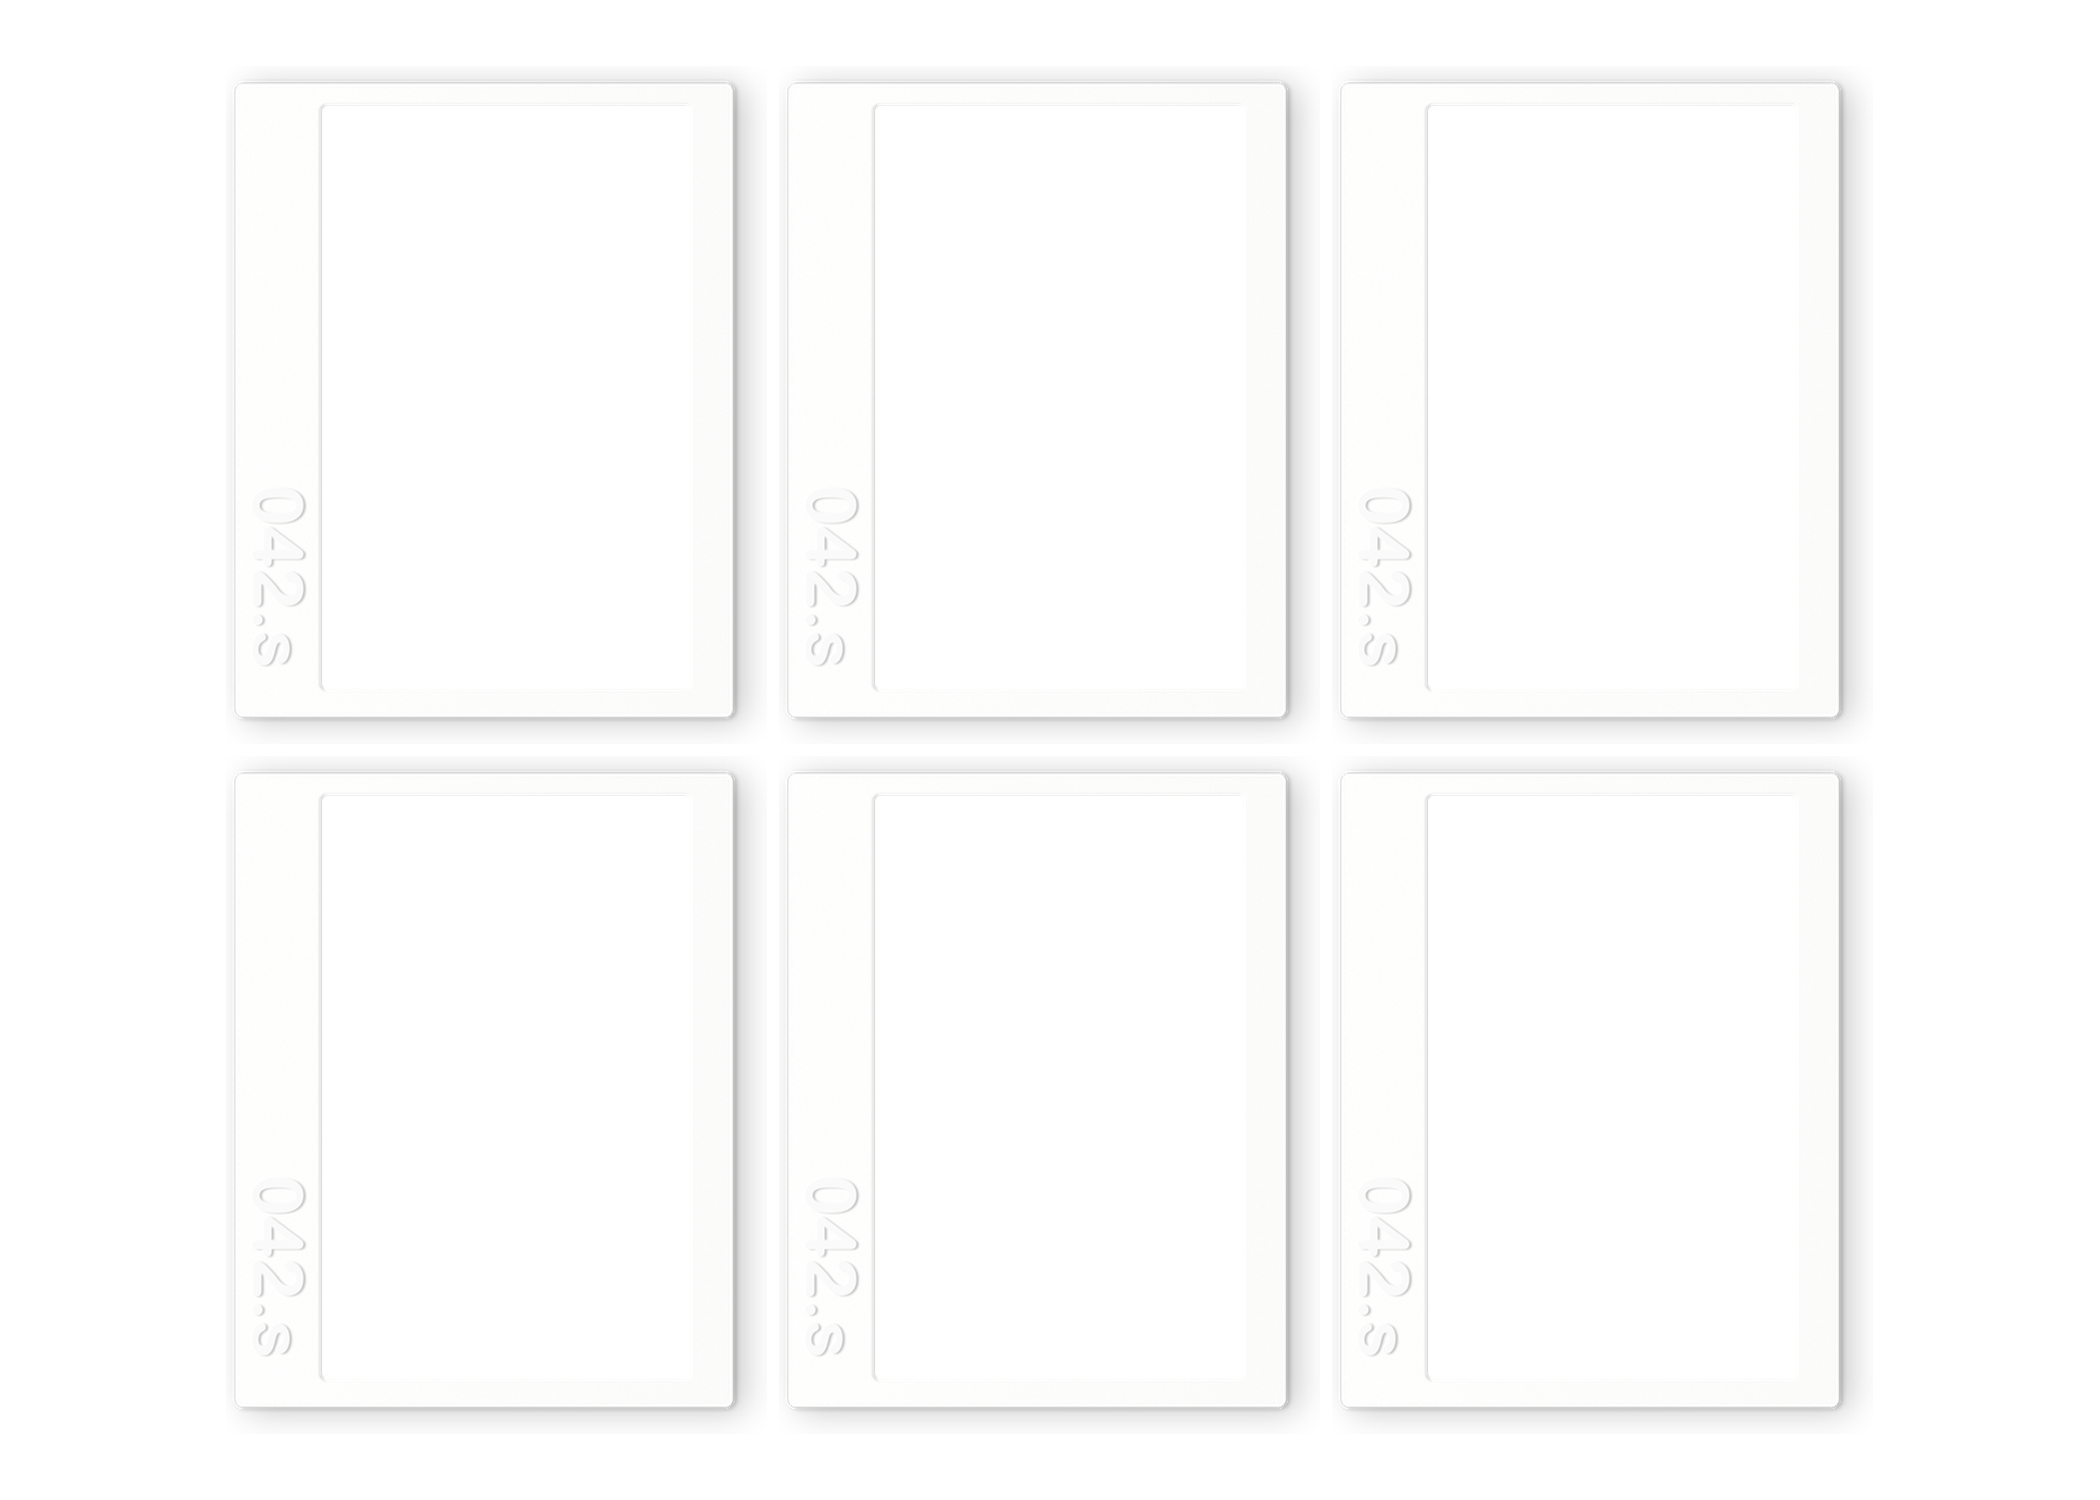
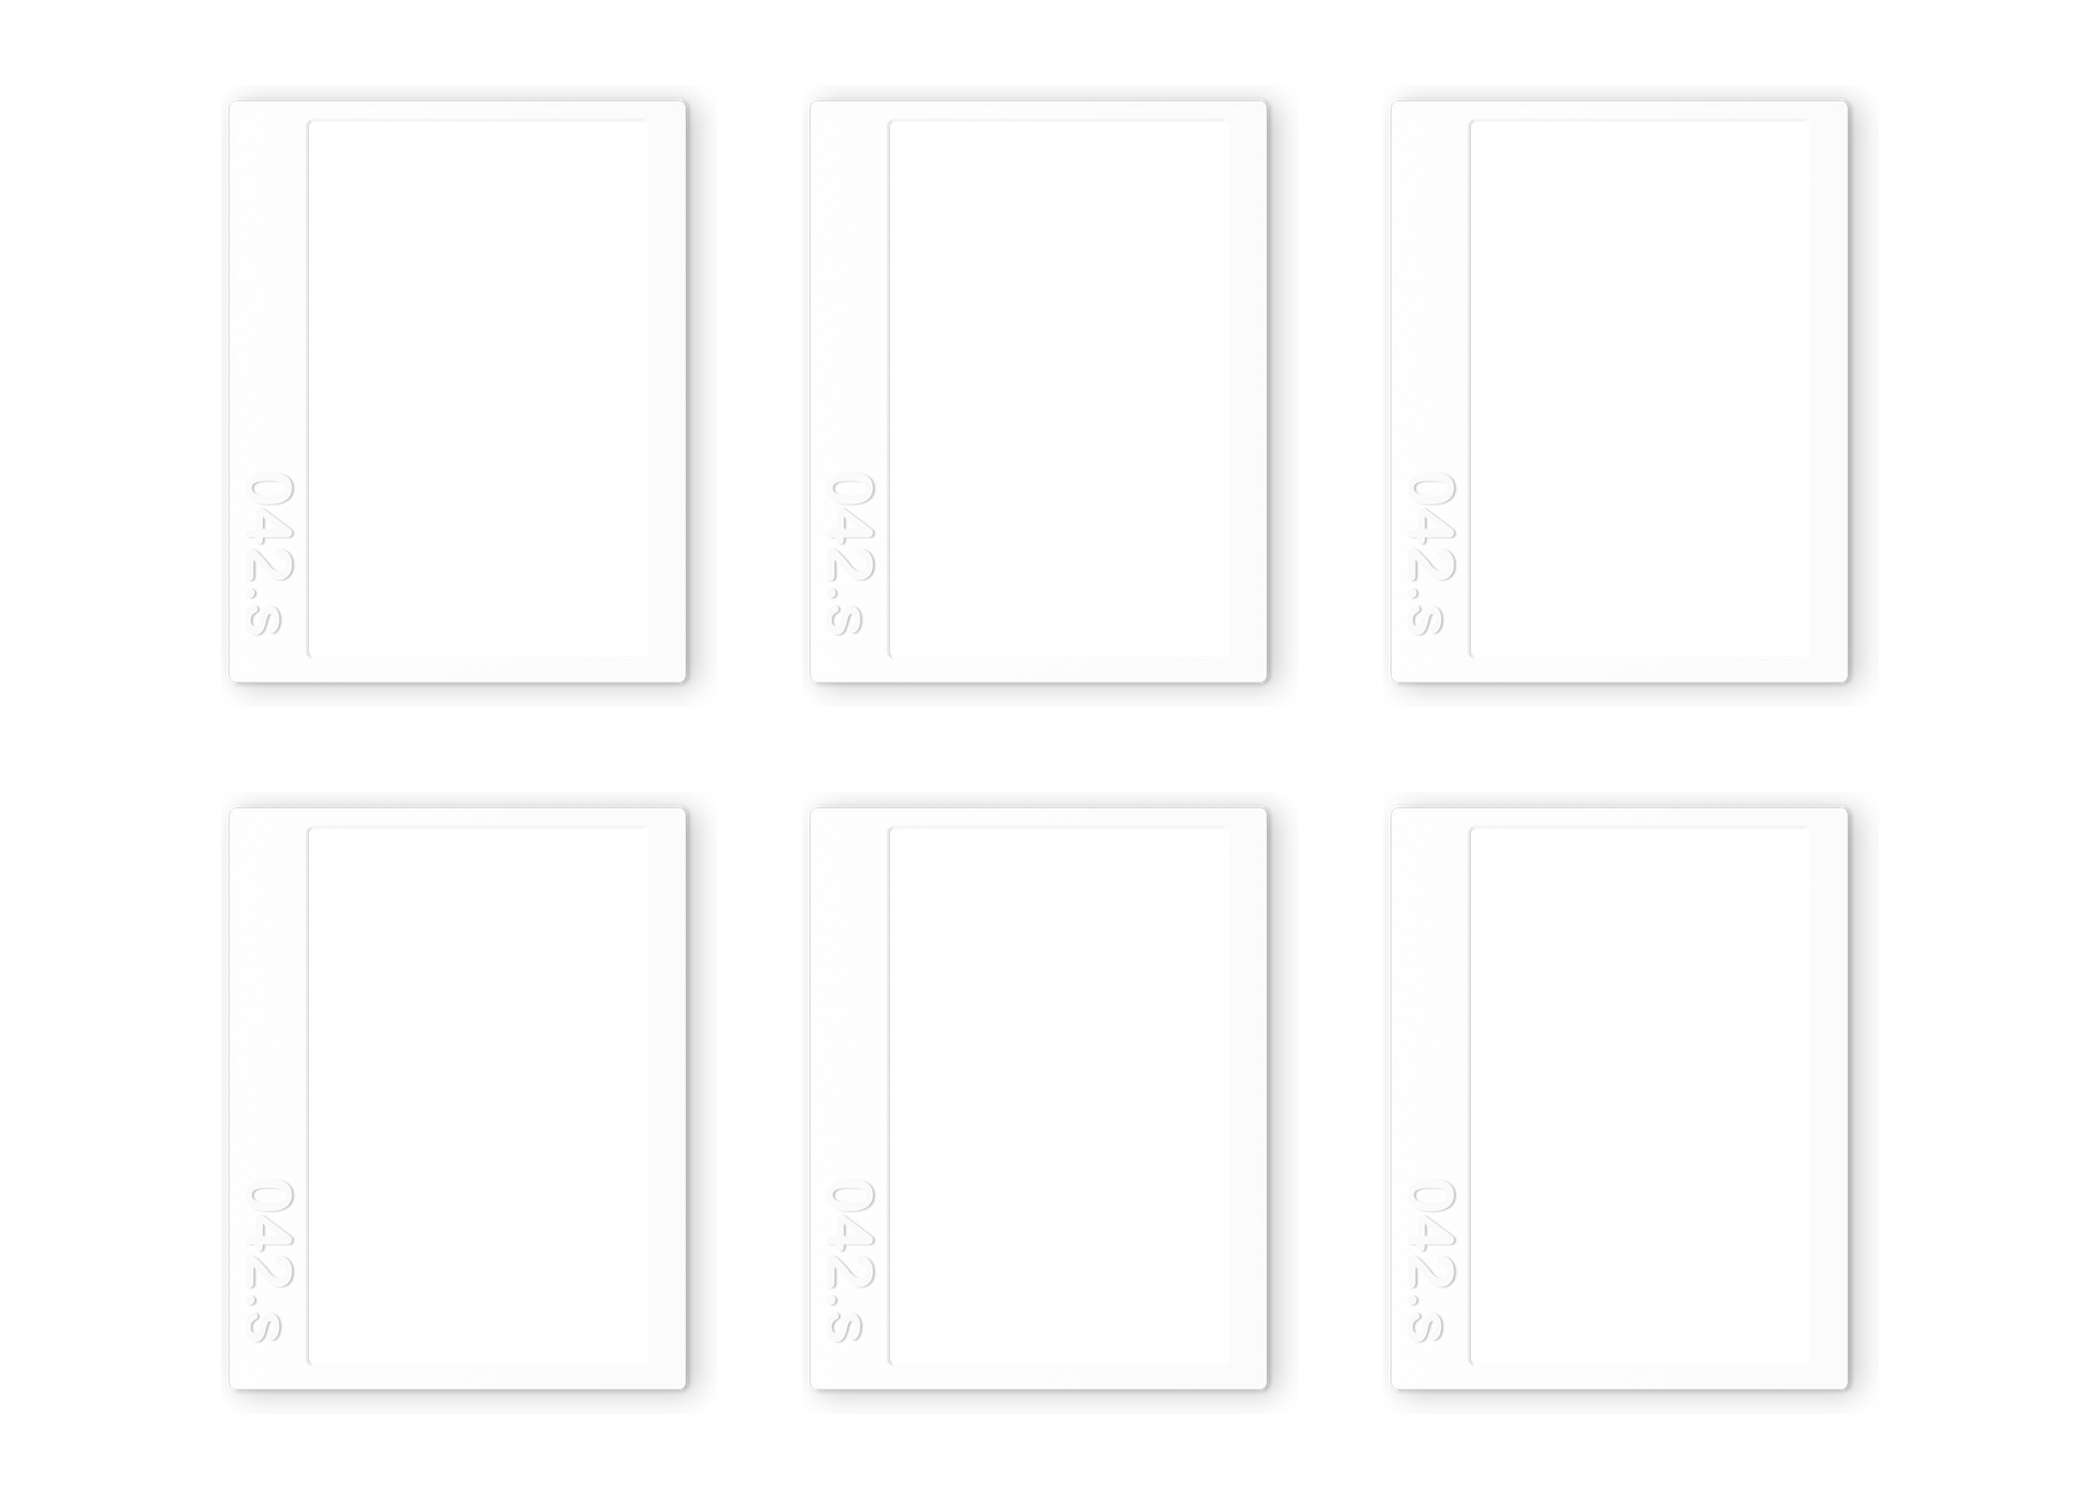
폴라로이드 6컷 카드 하나로 합치고 방향 고르기 단계, 카드 사이 넓힘
첫 화면은 폴라로이드 6컷 카드 하나, 누르면 세로·가로를 고른 뒤 색 고르기로 갑니다.
카드 사이를 10px에서 80~85px로 넓혔습니다. 캐시 self042-v54.

diff --git a/app.js b/app.js
@@ -79,19 +79,20 @@ function defaultConfig(){
         texts: []
       },
       /* 폴라로이드 6컷 — 예전 9컷 카드(그림은 휴지통으로 옮김, 카드 하나 그림자 포함 451×565)를 키워 6장으로(사용자 요청, 세로·가로 둘 다).
-         세로 frames/polaroid6v.png(1500×2100) 2×3, 카드 1.12배, 사진 칸 344×544.
-         가로 frames/polaroid6h.png(2100×1500) 3×2, 카드 1.2배, 사진 칸 368×583. 8장 찍고 서로 다른 6장을 고릅니다. */
+         카드 사이가 너무 붙어 보여 카드를 줄이고 사이를 넓혔습니다(사용자 요청, 사이 = 카드 폭의 약 17%).
+         세로 frames/polaroid6v.png(1500×2100) 2×3, 카드 1.05배, 사이 80, 사진 칸 322×510.
+         가로 frames/polaroid6h.png(2100×1500) 3×2, 카드 1.1배, 사이 85, 사진 칸 338×535. 8장 찍고 서로 다른 6장을 고릅니다. */
       {
         id: "pol6v", name: "폴라로이드 6컷 세로", enabled: true, instax: false, style: "frame", bg: "#FFFFFF", shots: 8,
         canvas: { w:1500, h:2100 },
         frame: null, frameSrc: "frames/polaroid6v.png",
         slots: [
-          {x:329, y:126, w:344, h:544, shot:0},
-          {x:845, y:126, w:344, h:544, shot:1},
-          {x:329, y:770, w:344, h:544, shot:2},
-          {x:845, y:770, w:344, h:544, shot:3},
-          {x:329, y:1414, w:344, h:544, shot:4},
-          {x:845, y:1414, w:344, h:544, shot:5}
+          {x:320, y:115, w:322, h:510, shot:0},
+          {x:874, y:115, w:322, h:510, shot:1},
+          {x:320, y:788, w:322, h:510, shot:2},
+          {x:874, y:788, w:322, h:510, shot:3},
+          {x:320, y:1461, w:322, h:510, shot:4},
+          {x:874, y:1461, w:322, h:510, shot:5}
         ],
         texts: []
       },
@@ -100,12 +101,12 @@ function defaultConfig(){
         canvas: { w:2100, h:1500 },
         frame: null, frameSrc: "frames/polaroid6h.png",
         slots: [
-          {x:322, y:106, w:368, h:583, shot:0},
-          {x:875, y:106, w:368, h:583, shot:1},
-          {x:1428, y:106, w:368, h:583, shot:2},
-          {x:322, y:796, w:368, h:583, shot:3},
-          {x:875, y:796, w:368, h:583, shot:4},
-          {x:1428, y:796, w:368, h:583, shot:5}
+          {x:309, y:121, w:338, h:535, shot:0},
+          {x:890, y:121, w:338, h:535, shot:1},
+          {x:1471, y:121, w:338, h:535, shot:2},
+          {x:309, y:828, w:338, h:535, shot:3},
+          {x:890, y:828, w:338, h:535, shot:4},
+          {x:1471, y:828, w:338, h:535, shot:5}
         ],
         texts: []
       }
@@ -524,14 +525,25 @@ function miniHtml(L){
     return '<img class="mini" src="'+L.frameSrc+'" alt="" style="background:url('+url+') 0 0/100% 100%;'+size+'">';
   return '<img class="mini" src="'+url+'" alt="" style="'+size+'">';
 }
+/* 폴라로이드 6컷은 첫 화면에 카드 하나만 두고, 누르면 세로·가로를 고릅니다(사용자 요청). 둘 다 켜져 있을 때만 */
+var ORIENT_GROUP = ["pol6v", "pol6h"], ORIENT_NAME = "폴라로이드 6컷";
+function orientList(L){
+  if (!L || ORIENT_GROUP.indexOf(L.id) < 0) return [];
+  var a = enabledLayouts().filter(function(l){ return ORIENT_GROUP.indexOf(l.id) >= 0; });
+  return a.length > 1 ? a : [];
+}
 function buildModes(){
   var list = normalLayouts();
   if (!list.length){ $("modes").innerHTML = '<p class="note">보이도록 켜둔 인화 방식이 없습니다. 관리자 화면에서 켜주세요.</p>'; return; }
   instaxOrient = null;
   if (cur >= list.length) cur = 0;
+  var curL = list[cur];
   $("modes").innerHTML = list.map(function(L,i){
-    return '<button class="mode" data-i="'+i+'" aria-pressed="'+(i===cur)+'">'+miniHtml(L)+
-      '<span style="min-width:0"><span class="mode-name">'+escapeHtml(L.name)+'</span><br>'+
+    var grp = orientList(L);
+    if (grp.length && grp[0] !== L) return "";   // 같은 묶음의 두 번째(가로)는 카드를 따로 두지 않습니다
+    var on = grp.length ? grp.indexOf(curL) >= 0 : i===cur;
+    return '<button class="mode" data-i="'+i+'" aria-pressed="'+on+'">'+miniHtml(L)+
+      '<span style="min-width:0"><span class="mode-name">'+escapeHtml(grp.length ? ORIENT_NAME : L.name)+'</span><br>'+
       '<span class="mode-sub">'+shootTotal(L)+'장 찍고 '+shotCount(L)+'장 고르기</span></span></button>';
   }).join("");
   syncLook();
@@ -590,6 +602,22 @@ function buildBgPick(){
   });
 }
 
+/* 방향 고르기(폴라로이드 6컷 세로·가로) */
+function buildOrientPick(){
+  var all = enabledLayouts(), L = all[cur];
+  $("orientPick").innerHTML = orientList(L).map(function(l){
+    var i = all.indexOf(l);
+    return '<button class="mode" data-i="'+i+'" aria-pressed="'+(i===cur)+'">'+miniHtml(l)+
+      '<span style="min-width:0"><span class="mode-name">'+(isLandscape(l) ? "가로" : "세로")+'</span></span></button>';
+  }).join("");
+}
+$("orientPick").addEventListener("click", function(e){
+  var b = e.target.closest(".mode"); if (!b) return;
+  cur = Number(b.dataset.i);
+  frameColorId = null;
+  buildOrientPick(); buildFramePick(); buildBgPick(); syncLook(); updateShotNote();
+  showStep(2);
+});
 $("bgPick").addEventListener("click", function(e){
   var b = e.target.closest(".sw"); if (!b) return;
   CFG.bgId = b.dataset.b || null;
@@ -637,10 +665,18 @@ function pressOnly(host, value){
    1·2단계는 누르면 바로 넘어가서 "다음" 버튼이 없습니다.
    올려둔 배경이 없으면 2단계(없음 하나뿐)를 건너뜁니다.
    인스탁스는 늘 많이 찍고 고르니 촬영 방식 버튼을 숨깁니다. */
-var step = 1;
+/* 1.5 = 방향 고르기(폴라로이드 6컷만). 고를 것이 없는 단계는 가던 쪽으로 건너뜁니다 */
+var step = 1, STEPS = [1, 1.5, 2, 3];
+function stepOK(n){
+  if (n === 1.5) return orientList(enabledLayouts()[cur]).length > 0;
+  if (n === 2) return allBackgrounds().length > 0;
+  return true;
+}
 function showStep(n){
-  if (n === 2 && !allBackgrounds().length) n = step < 2 ? 3 : 1;
-  step = Math.min(3, Math.max(1, n));
+  var i = STEPS.indexOf(n), dir = n >= step ? 1 : -1;
+  if (i < 0) i = n < 1 ? 0 : STEPS.length-1;
+  while (i > 0 && i < STEPS.length-1 && !stepOK(STEPS[i])) i += dir;
+  step = STEPS[i];
   Array.prototype.forEach.call(document.querySelectorAll('#setup [data-step]'), function(el){
     el.hidden = Number(el.dataset.step) !== step;
   });
@@ -650,7 +686,7 @@ function showStep(n){
   $("shotNote").hidden = step !== 3;
   document.querySelector("#setup .setup-head").hidden = step !== 1;   // SELF PHOTO BOOTH · STUDIO 042 는 첫 화면에만(사용자 요청)
 }
-$("backBtn").addEventListener("click", function(){ showStep(step-1); });
+$("backBtn").addEventListener("click", function(){ showStep(STEPS[STEPS.indexOf(step)-1]); });
 /* 첫 화면(대기 화면)은 가로·세로 고르기입니다(사용자 요청). 맥에서 실시간으로 받는 중이면 카드를 누르는 순간 그 방향으로
    바로 사진 고르기 화면으로 가고(가로·세로 버튼은 고르기 화면에 두지 않습니다), 아니면 예전처럼 배경·보정·카메라 순서로 갑니다.
    관리자 화면은 이 화면 맨 위 이름 글씨를 길게 눌러 엽니다. */
@@ -667,10 +703,11 @@ $("modes").addEventListener("click", function(e){
   Array.prototype.forEach.call($("modes").children, function(x){
     x.setAttribute("aria-pressed", String(x === b));
   });
+  buildOrientPick();
   buildBgPick();
   syncLook();
   updateShotNote();
-  showStep(2);
+  showStep(1.5);
 });
 $("filters").addEventListener("click", function(e){
   var b=e.target.closest(".chip"); if(!b) return;

diff --git a/index.html b/index.html
@@ -479,6 +479,11 @@ input[type=range]::-moz-range-thumb{width:20px;height:20px;border-radius:50%;
     <h2 class="ask" id="step1Title">프레임 골라주세요.</h2>
     <div class="modes" id="modes" role="group" aria-label="인화 방식"></div>
   </div>
+  <!-- 폴라로이드 6컷만: 첫 화면 카드는 하나, 들어가서 세로·가로를 고릅니다(사용자 요청) -->
+  <div class="field" data-step="1.5" hidden>
+    <h2 class="ask">방향을 골라주세요</h2>
+    <div class="modes" id="orientPick" role="group" aria-label="방향"></div>
+  </div>
   <div class="field" data-step="2" hidden>
     <h2 class="ask" id="step2Title">배경을 골라주세요</h2>
     <div class="swatches" id="bgPick" role="group" aria-label="배경"></div>

diff --git a/sw.js b/sw.js
@@ -1,6 +1,6 @@
 /* 셀프 042 (아이패드 부스) — 오프라인 캐시.
    앱 내용을 고치고 아이패드에 반영되지 않으면 아래 CACHE 번호를 올리세요. */
-const CACHE = "self042-v53";
+const CACHE = "self042-v54";
 const SHELL = ["./", "./index.html", "./app.js", "./camera-check.html", "./manifest.json", "./icon-180.png", "./icon-512.png"];
 
 self.addEventListener("install", (e) => {
